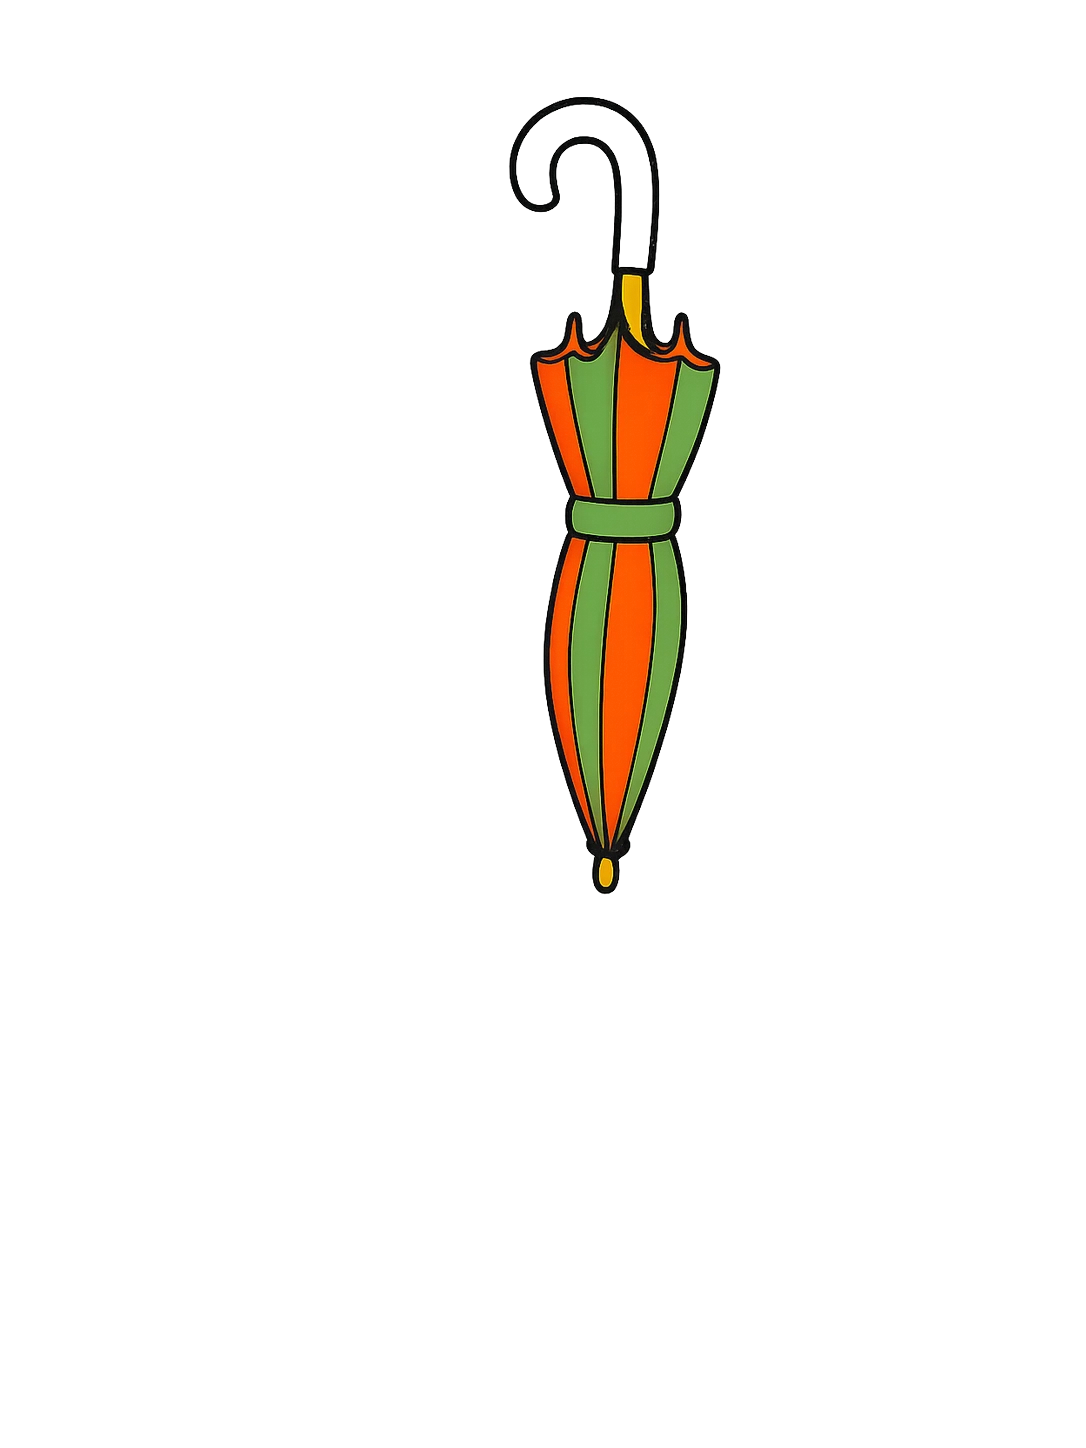
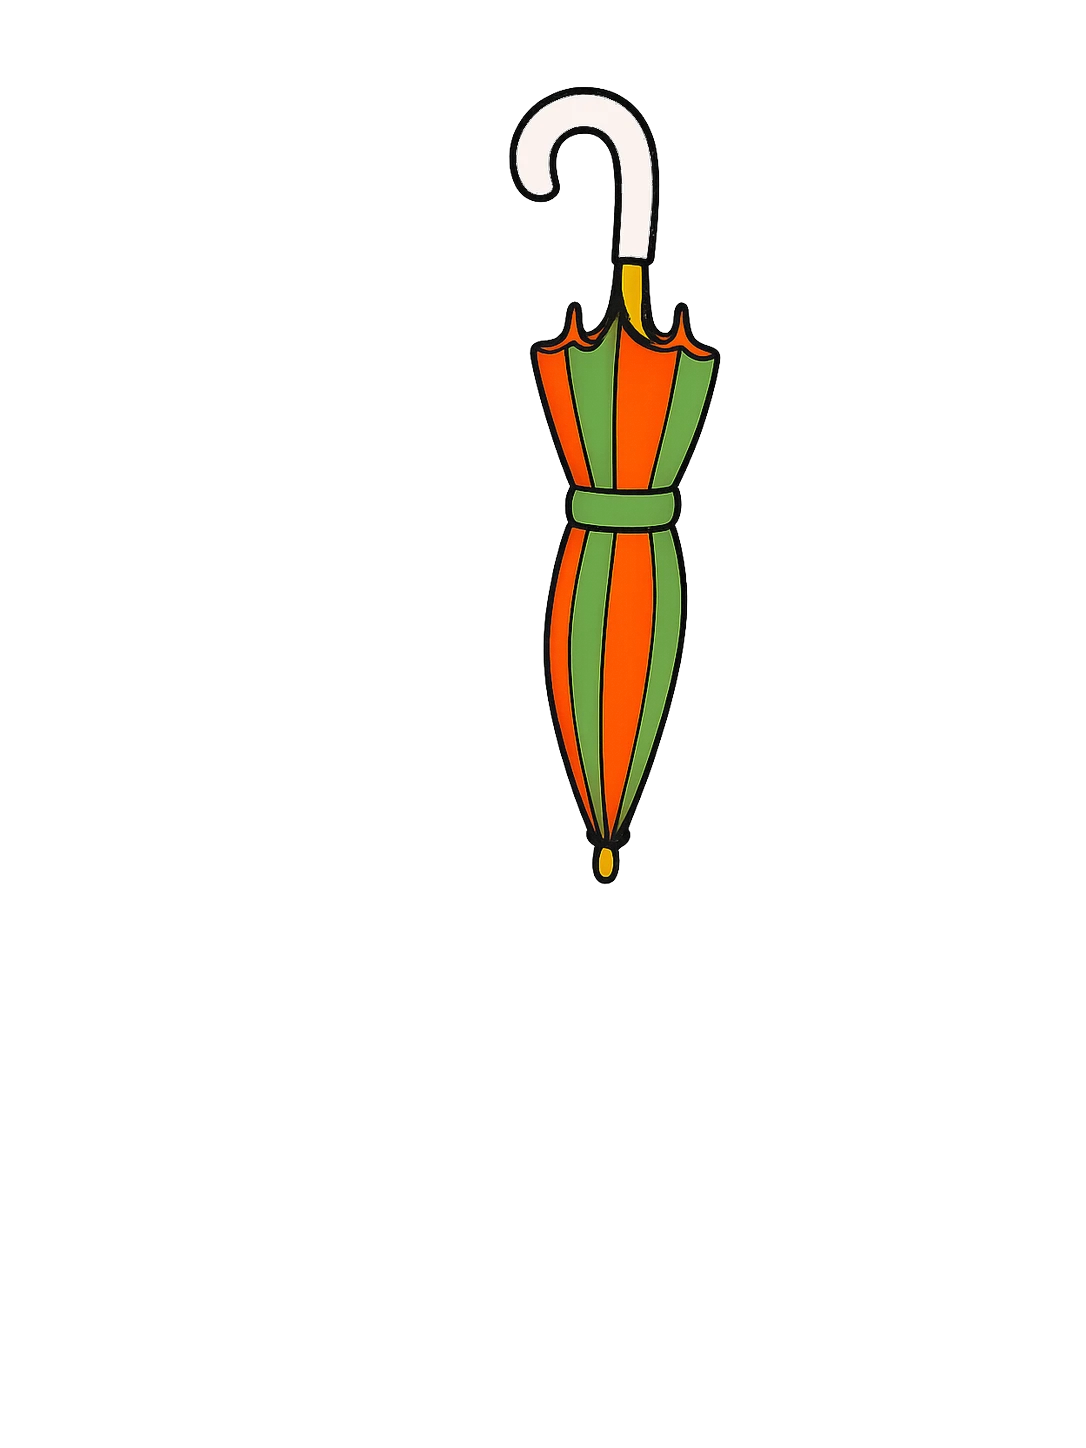
fix: umbrella own adjKey, boxers/socks trigger pete image swap, gloves closet reset, calibrations

Changed region(s): [[0.4862, 0.1554, 0.6685, 0.6215], [0.4558, 0.0622, 0.6077, 0.1554]]

diff --git a/src/App.tsx b/src/App.tsx
@@ -100,7 +100,7 @@ interface ClothingItem {
 }
 
 // AdjustmentKey covers regular slots + split sub-slots + underlayer slots
-type AdjustmentKey = SlotId | 'feet-left' | 'feet-right' | 'underbody' | 'hands'
+type AdjustmentKey = SlotId | 'feet-left' | 'feet-right' | 'underbody' | 'hands' | 'umbrella'
 
 interface DragState {
   item: ClothingItem
@@ -362,7 +362,7 @@ const ITEMS: ClothingItem[] = [
     layerZ: 9,
     colorizable: true,
     baseHue: 20,
-    defaultAdjustment: { x: 0, y: 0, scale: 2.00, rotate: 0 },
+    defaultAdjustment: { x: 46, y: 230, scale: 0.70, rotate: -11 },
   },
 ]
 
@@ -382,8 +382,9 @@ const DEFAULT_ADJUSTMENTS: Record<AdjustmentKey, LayerAdjustment> = {
   body:         { x: 12, y: 11,  scale: 1.00, rotate: 0 },
   neck:         { x: -16, y: 22, scale: 1.15, rotate: 0 },
   head:         { x: 19, y: -59, scale: 1.00, rotate: 0 },
-  underbody:    { x: 27, y: -95, scale: 1.00, rotate: 0 },
+  underbody:    { x: 9, y: 19, scale: 1.05, rotate: 0 },
   hands:        { x: 0, y: 180, scale: 1.0, rotate: 0 },
+  umbrella:     { x: 46, y: 230, scale: 0.70, rotate: -11 },
 }
 
 // ── Hanger SVG ─────────────────────────────────────────────────────────────────
@@ -717,8 +718,8 @@ function Pete({
   const equippedNeck  = equipped.neck  ? ITEMS.find(i => i.id === equipped.neck)  : null
   const equippedHead  = equipped.head  ? ITEMS.find(i => i.id === equipped.head)  : null
 
-  const hideArms = !!(equippedTorso || equippedBody)
-  const hideFeet = !!equippedFeet
+  const hideArms = !!(equippedTorso || equippedBody || equippedUnderlayers.includes('boxers'))
+  const hideFeet = !!(equippedFeet || equippedUnderlayers.includes('socks'))
 
   const peteImg = hideArms && hideFeet
     ? peteNoArmsNoFeet
@@ -768,6 +769,11 @@ function Pete({
     if (key === 'hands') {
       const glovesEquipped = equippedUnderlayers.includes('gloves')
       return glovesEquipped ? (ITEMS.find(i => i.id === 'gloves') ?? null) : null
+    }
+    // umbrella → head slot item (only when umbrella is equipped)
+    if (key === 'umbrella') {
+      const headId = equipped[SLOT.HEAD]
+      return headId === 'umbrella' ? (ITEMS.find(i => i.id === 'umbrella') ?? null) : null
     }
     const itemId = equipped[key as SlotId]
     return itemId ? (ITEMS.find(i => i.id === itemId) ?? null) : null
@@ -942,16 +948,16 @@ function Pete({
           />
         )}
 
-        {/* z=8 (or layerZ) — Head layer (hat), top of everything; umbrella uses layerZ:9 */}
+        {/* z=8 (or layerZ) — Head layer (hat), top of everything; umbrella uses layerZ:9 + own key */}
         {equippedHead && (
           <img
             key={equippedHead.id}
             src={getItemImage(equippedHead, true)}
             alt=""
             className="absolute inset-0 h-full w-auto object-contain"
-            style={buildLayerStyle(equippedHead.layerZ ?? 8, SLOT.HEAD)}
+            style={buildLayerStyle(equippedHead.layerZ ?? 8, equippedHead.id === 'umbrella' ? 'umbrella' : SLOT.HEAD)}
             draggable={false}
-            onPointerDown={e => handleLayerPointerDown(SLOT.HEAD, e)}
+            onPointerDown={e => handleLayerPointerDown(equippedHead.id === 'umbrella' ? 'umbrella' : SLOT.HEAD, e)}
           />
         )}
 
@@ -1141,6 +1147,8 @@ function DebugPanel({
     ...SLOT_ORDER.flatMap(slot => {
       if (equipped[slot] === null) return []
       if (slot === SLOT.FEET && feetIsSplit) return ['feet-left', 'feet-right'] as AdjustmentKey[]
+      // Umbrella uses its own adjustment key instead of 'head'
+      if (slot === SLOT.HEAD && equipped[slot] === 'umbrella') return ['umbrella'] as AdjustmentKey[]
       return [slot as AdjustmentKey]
     }),
     // Underlayer items — map each to its adjustment key
@@ -1698,8 +1706,8 @@ export default function App() {
     'shorts':       { x: -89,   y: -79,  scale: 0.65 },
     'cap':          { x: 187,   y: -324, scale: 1.00 },
     'coat-winter':  { x: 17,    y: -96,  scale: 1.00 },
-    'boxers':       { x: 0,     y: 0,    scale: 1.00 },
-    'gloves':       { x: -363,  y: 357,  scale: 1.00 },
+    'boxers':       { x: 18,    y: -99,  scale: 1.00 },
+    'gloves':       { x: 0,     y: 0,    scale: 1.00 },
     'wool-hat':     { x: -12,   y: -334, scale: 1.00 },
     'helmet':       { x: -214,  y: -323, scale: 1.00 },
     'umbrella':     { x: -1179, y: 152,  scale: 2.00 },
@@ -1857,7 +1865,8 @@ export default function App() {
               // Normal slot item dropped onto Pete → equip in slot
               setEquipped(eq => ({ ...eq, [current.item.slot]: current.item.id }))
               if (current.item.defaultAdjustment) {
-                const adjKey: AdjustmentKey = current.item.slot
+                // Umbrella uses its own 'umbrella' key instead of the shared 'head' key
+                const adjKey: AdjustmentKey = current.item.id === 'umbrella' ? 'umbrella' : current.item.slot
                 setAdjustments(prev => ({
                   ...prev,
                   [adjKey]: { ...DEFAULT_ADJUSTMENT, ...current.item.defaultAdjustment },
